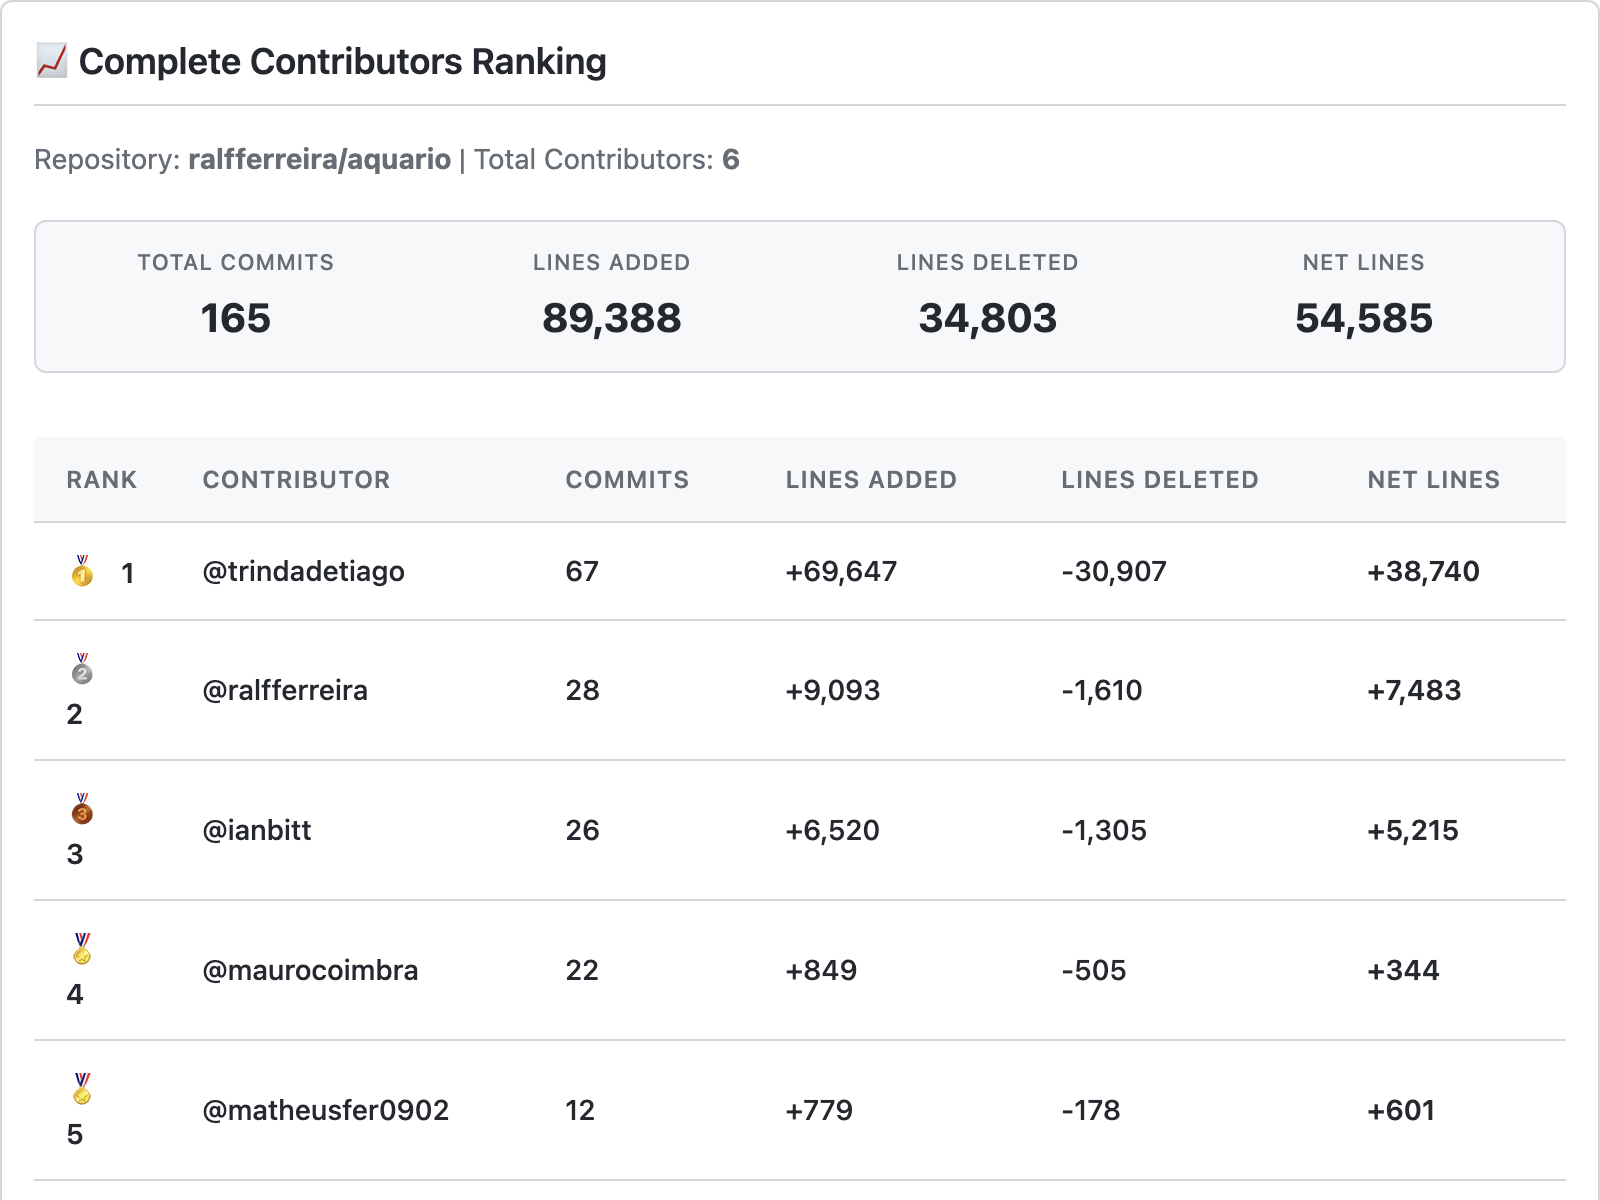
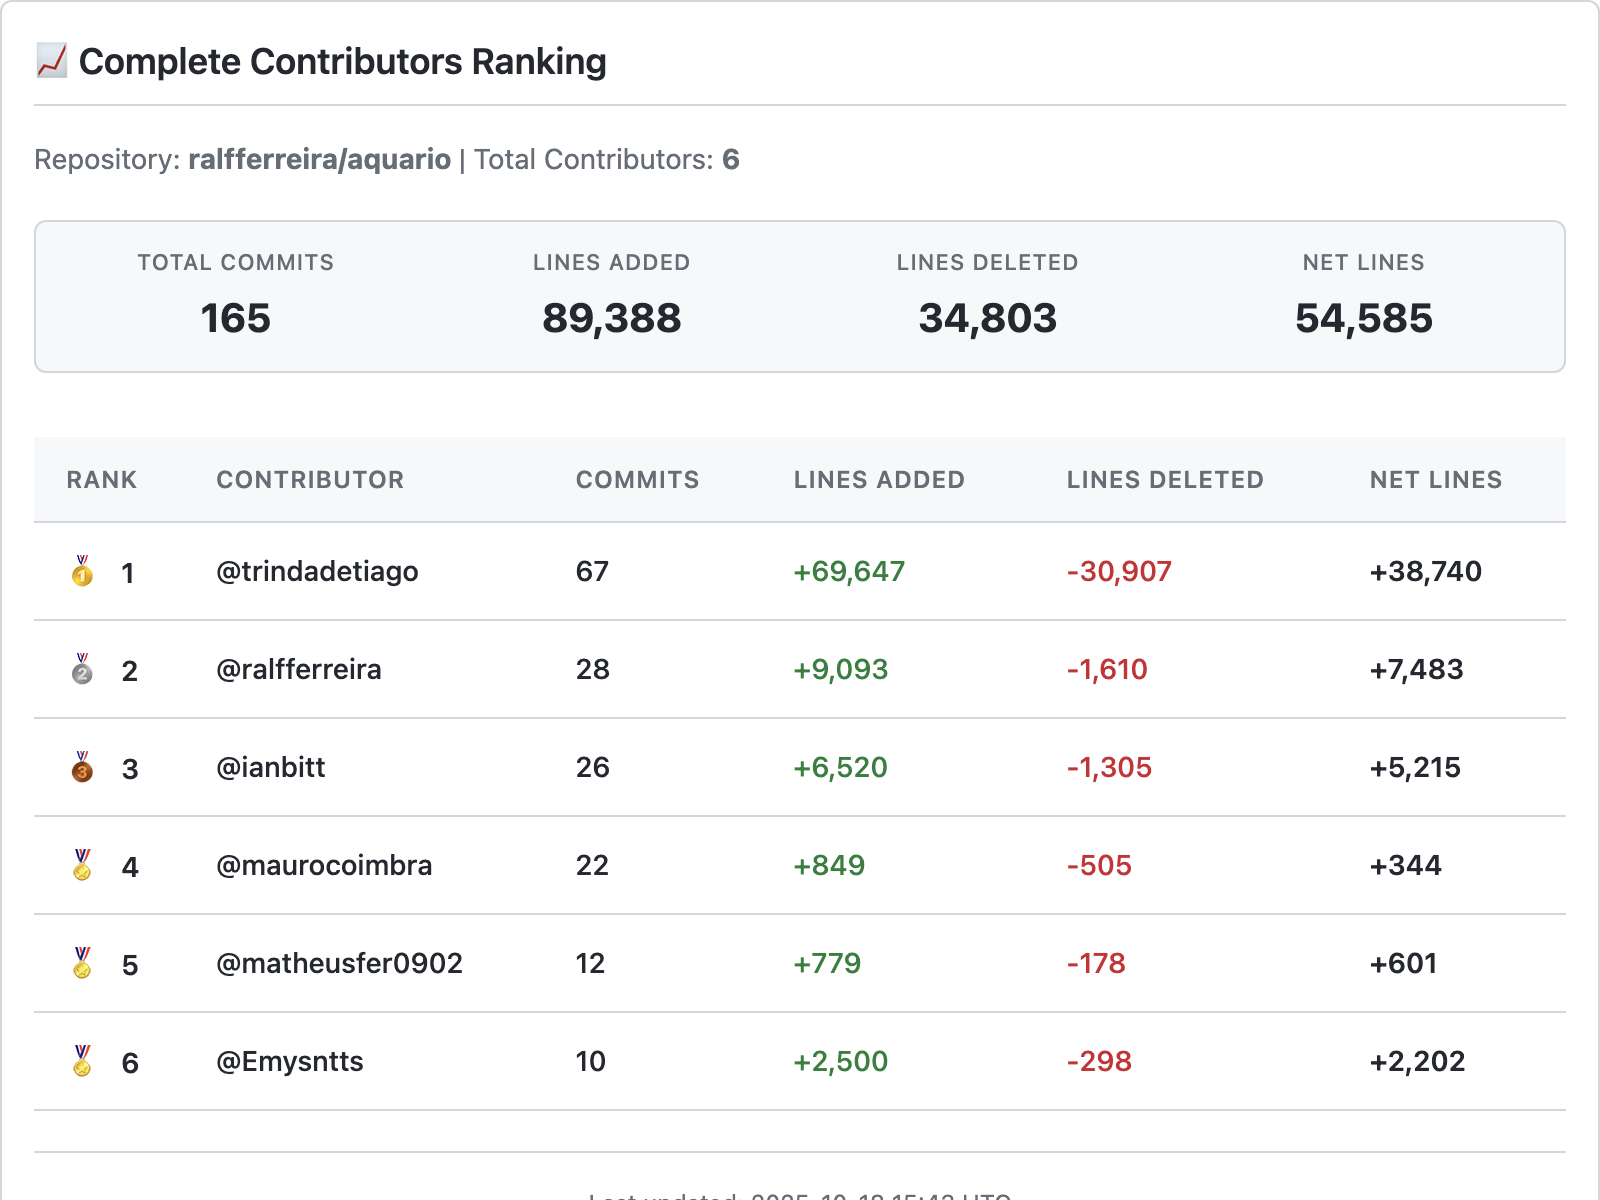
almost

diff --git a/templates/detailed-ranking.html b/templates/detailed-ranking.html
@@ -90,7 +90,7 @@
         .rank-cell {
             font-weight: 600;
             text-align: center;
-            width: 65px;
+            width: 75px;
         }
         
         .contributor-name {
@@ -104,13 +104,13 @@
         }
         
         .lines-added {
-            color: #1a7f37;
+            color: #1a7f37 !important;
             font-weight: 500;
             text-align: right;
         }
         
         .lines-deleted {
-            color: #cf222e;
+            color: #cf222e !important;
             font-weight: 500;
             text-align: right;
         }
